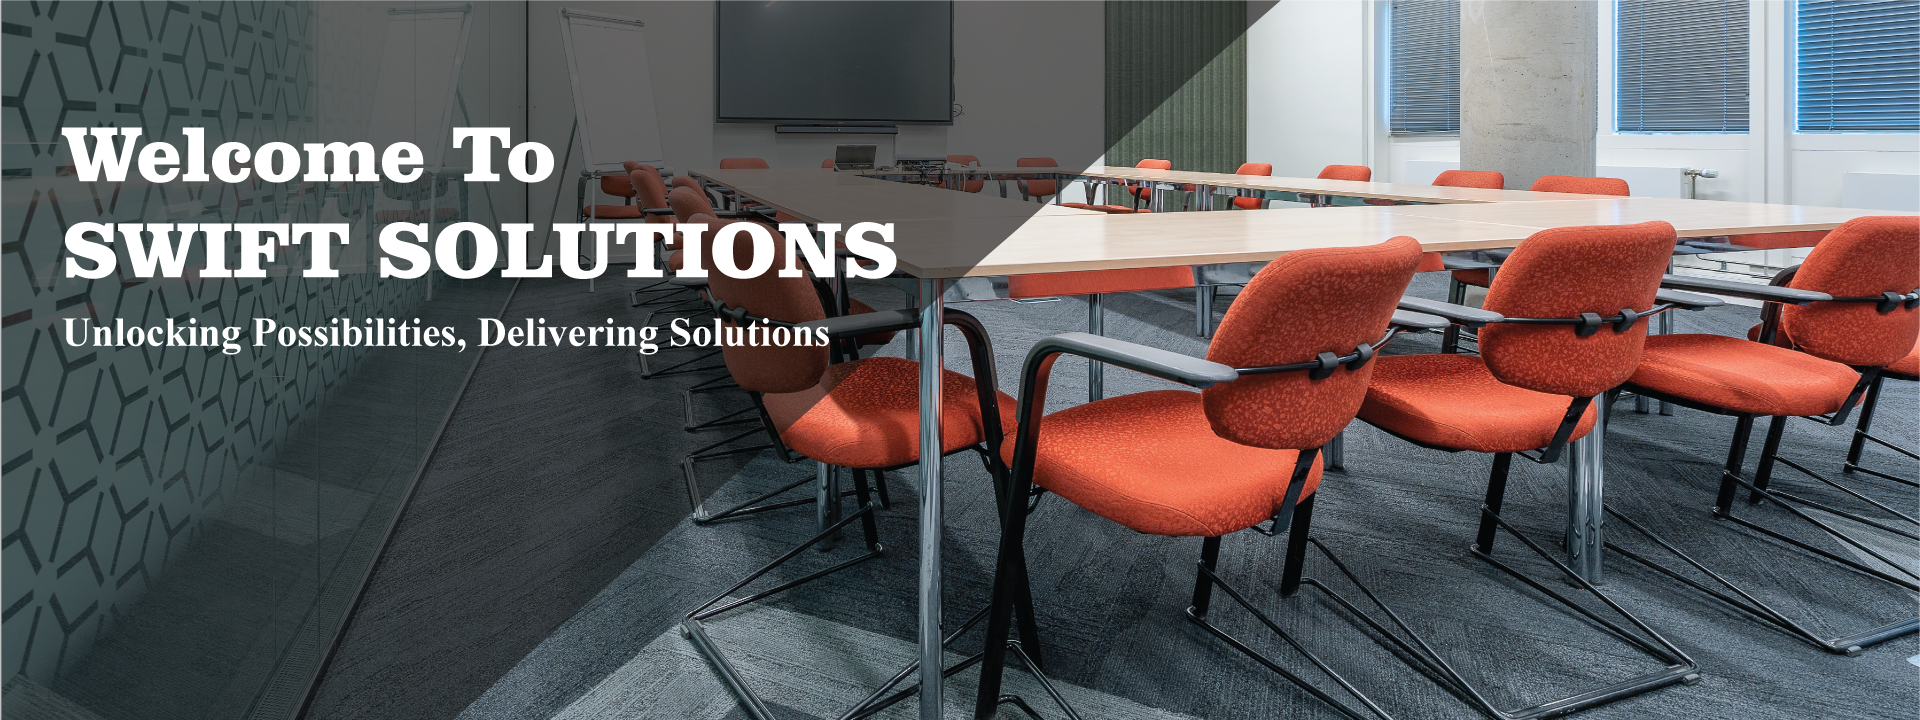
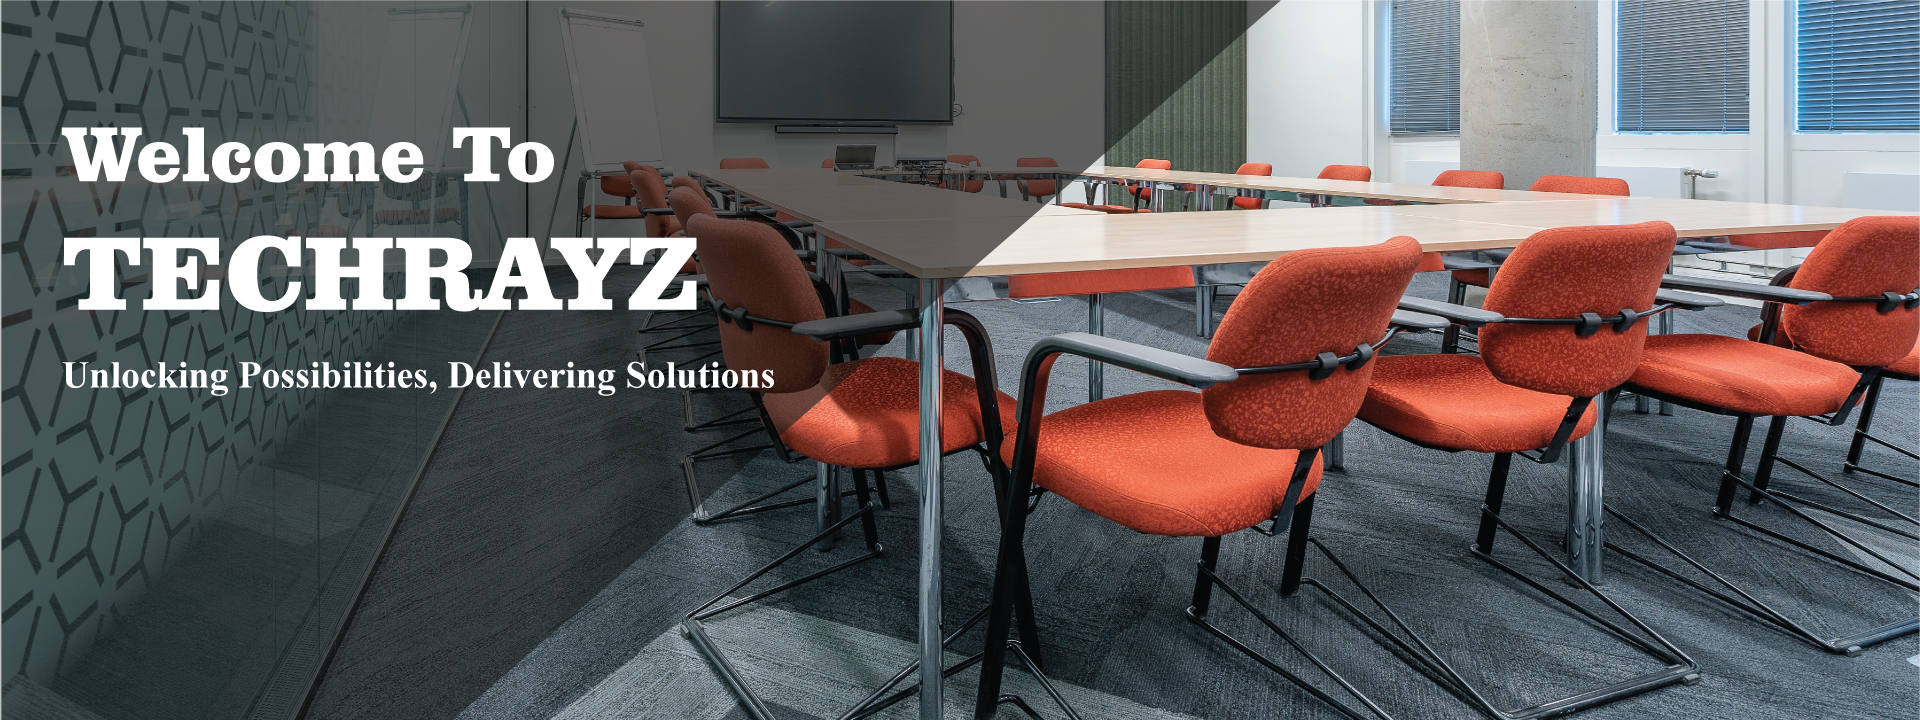
final

Changed region(s): [[0.0312, 0.3056, 0.4688, 0.55]]

diff --git a/src/components/Careers.js b/src/components/Careers.js
@@ -9,7 +9,7 @@ function Careers() {
                 <div className='row'>
                     <div className='col-md-2'></div>
                     <div className='col-12 col-md-8' style={{ textAlign: 'justify' }}>
-                        <p className='text-white fs-5 p-2'>At Swift Solutions, we believe that our success is driven by the talent and dedication of our team members. We're always on the lookout for exceptional individuals who are passionate about technology and development to join our team. While we currently don't have any job openings or vacancies available, we encourage you to check back periodically for future opportunities.</p>
+                        <p className='text-white fs-5 p-2'>At TECHRAYZ, we believe that our success is driven by the talent and dedication of our team members. We're always on the lookout for exceptional individuals who are passionate about technology and development to join our team. While we currently don't have any job openings or vacancies available, we encourage you to check back periodically for future opportunities.</p>
                     </div>
                     <div className='col-md-2'></div>
                 </div>
@@ -24,7 +24,7 @@ function Careers() {
                     <div className='col-12 col-lg-6'>
                         <div style={{ textAlign: 'justify' }}>
                             <p>
-                                At Swift Solutions, our work environment is characterized by a vibrant and inclusive culture that inspires collaboration, creativity, and growth. We foster a sense of belonging where every team member's unique perspectives and ideas are valued and respected.
+                                At TECHRAYZ, our work environment is characterized by a vibrant and inclusive culture that inspires collaboration, creativity, and growth. We foster a sense of belonging where every team member's unique perspectives and ideas are valued and respected.
                             </p>
                             <p>
                                 Our teams thrive on collaboration, working together seamlessly to achieve exceptional results. We encourage open communication, knowledge sharing, and mutual support, creating an environment that nurtures teamwork and camaraderie.
@@ -96,8 +96,8 @@ function Careers() {
                 <div className='row'  style={{ textAlign: 'justify' }}>
                     <div className='col-md-2'></div>
                     <div className='col-md-8'>
-                <p>While we currently don't have any job openings, we still encourage talented individuals to get in touch with us and express their interest in joining our team. You can connect with us by sending an email to [careers@swiftsolutions.pk] or by filling out the contact form below. We will keep your information on file and reach out to you when suitable opportunities arise.</p>
-                <p>Thank you for considering Swift Solutions  as a potential employer. We appreciate your interest in our company and look forward to connecting with you in the future.</p>
+                <p>While we currently don't have any job openings, we still encourage talented individuals to get in touch with us and express their interest in joining our team. You can connect with us by sending an email to [careers@techrayz.com] or by filling out the contact form below. We will keep your information on file and reach out to you when suitable opportunities arise.</p>
+                <p>Thank you for considering TECHRAYZ  as a potential employer. We appreciate your interest in our company and look forward to connecting with you in the future.</p>
                     </div>
                     <div className='col-md-2'></div>
                 </div>

diff --git a/src/components/Landing.js b/src/components/Landing.js
@@ -80,13 +80,13 @@ function Landing() {
             {/* Information About Company: */}
             <div className='container-fluid py-2 py-lg-5'>
                 <div className='row d-flex justify-content-center'>
-                    <div className='col-5 col-md-2  p-lg-4'>
-                        <img src={Logo} alt="Logo" className="rounded-circle w-100" />
+                    <div className='col-5 col-md-2 p-lg-4 d-flex align-items-center'>
+                        <img src={Logo} alt="Logo" className="w-100" />
                     </div>
                     <div className='col-12 col-md-9 col-lg-8'>
-                        <div> <span className='fs-4'>Welcome to Swift Solutions - </span> <span className='fs-5'>Unlocking Possibilities, Delivering Solutions</span></div>
+                        <div> <span className='fs-4'>Welcome to TECHRAYZ - </span> <span className='fs-5'>Unlocking Possibilities, Delivering Solutions</span></div>
                         <p style={{ textAlign: 'justify' }}>
-                            Swift Solutions is a leading IT Software Company, the premier destination for cutting-edge technology solutions and development services. With a relentless pursuit of innovation and a steadfast commitment to excellence, we empower businesses across diverse industries to achieve their goals. Our comprehensive range of services includes website development, mobile app development, graphic designing, digital marketing, and networking services. At Swift Solutions, we drive meaningful digital transformation, fuel growth, and position our clients at the forefront of their respective markets. Experience the power of unique solutions and transformative innovation with Swift Solutions.
+                            TechRayz is a leading IT Software Company, the premier destination for cutting-edge technology solutions and development services. With a relentless pursuit of innovation and a steadfast commitment to excellence, we empower businesses across diverse industries to achieve their goals. Our comprehensive range of services includes website development, mobile app development, graphic designing, digital marketing, and networking services. At TechRayz, we drive meaningful digital transformation, fuel growth, and position our clients at the forefront of their respective markets. Experience the power of unique solutions and transformative innovation with TechRayz.
                         </p>
                     </div>
                 </div>

diff --git a/src/components/Footer.js b/src/components/Footer.js
@@ -9,8 +9,7 @@ function Footer() {
                 <div className="row">
                     <div className="col-12 col-md-4" style={{ textAlign: 'justify' }}>
                         <Link to="/" className='text-decoration-none text-white h3'>
-                            <img src={logo} alt='Logo' width="50" height="50" className="rounded-circle me-2" />
-                            Swift solutions
+                            <img src={logo} alt='Logo' width={200} className="" />
                         </Link>
                         <div className='my-3'>
                             <Link to="/" className="mx-2"><i className="bi bi-facebook text-white fs-4"></i></Link>
@@ -19,7 +18,7 @@ function Footer() {
                             <Link to="/" className="mx-2"><i className="bi bi-whatsapp text-white fs-4"></i></Link>
                             <Link to="/" className="mx-2"><i className="bi bi-linkedin text-white fs-4"></i></Link>
                         </div>
-                        <div>Copyright &copy; 2023, Swift Solutions</div>
+                        <div>Copyright &copy; 2023, techrayz.com</div>
                         <div><Link to="/PrivacyPolicy">Privacy Policy</Link> | <Link to="/">Site Map</Link></div>
                     </div>
                     <div className="col-12 col-md-2 mt-2">
@@ -43,7 +42,7 @@ function Footer() {
                     <div className="col-12 col-md-4 mt-2">
                         <h4>Contact</h4>
                         <ul className='list-unstyled'>
-                            <li className='mb-2 text-white'> <i className='bi bi-envelope me-2'> </i> info@swiftsolution</li>
+                            <li className='mb-2 text-white'> <i className='bi bi-envelope me-2'> </i> info@techrayz.com</li>
                             <li className='mb-2 text-white'> <i className='bi bi-telephone me-2'> </i> +92 301 4405739</li>
                             <li className='mb-2 text-white'> <i className='bi bi-phone me-2'> </i> +92 305 4735990</li>
                             <li className='mb-2 text-white'> <i className='bi bi-geo-alt me-2'> </i> Fateh Garh Lahore, Pakistan</li>

diff --git a/src/components/Contact.js b/src/components/Contact.js
@@ -10,7 +10,7 @@ function Contact() {
         window.location.href = 'tel:+923014405739';
     };
 
-    const emailAddress = "info@swiftsolutions.pk";
+    const emailAddress = "info@techrayz.com";
     const handleEmailClick = () => {
         window.location.href = `mailto:${emailAddress}`;
     };
@@ -72,7 +72,7 @@ function Contact() {
                                             <i className='bi bi-envelope text-warning fs-1 me-3'></i>
                                             </div>
                                             <div className='fs-5'>Get Enquiry at: <br />
-                                                <div className=' fs-3 fw-bold my-2'>info@swiftsolution</div>
+                                                <div className=' fs-3 fw-bold my-2'>info@techrayz.com</div>
                                                 <button onClick={handleEmailClick} className="btn btn-dark px-4">
                                                     Mail Now
                                                 </button>

diff --git a/src/components/Navbar.js b/src/components/Navbar.js
@@ -6,9 +6,9 @@ function Navbar() {
   return (
     <nav className="navbar navbar-expand-lg navbar-light bg-transparen">
       <div className="container-fluid">
-        <Link className="navbar-brand d-flex fw-bold align-items-center mx-3" to="/">
-          <img src={logo} alt="Logo" width="50" height="50" className="d-inline-block align-text-top rounded-circle me-2" />
-          SwiftSolutions </Link>
+        <Link className="navbar-brand d-flex fw-bold align-items-center ms-5 " to="/">
+          <img src={logo} alt="Logo" width={120} className="d-inline-block align-text-top" />
+        </Link>
         <button className="navbar-toggler" type="button" data-bs-toggle="collapse"
           data-bs-target="#navbarSupportedContent" aria-controls="navbarSupportedContent" aria-expanded="false"
           aria-label="Toggle navigation">

diff --git a/src/components/AboutUs.js b/src/components/AboutUs.js
@@ -11,7 +11,7 @@ function AboutUs() {
     return (
         <>
             <div className='container-fluid py-5 px-0 text-white text-center ' style={{ backgroundImage: `url(${Background})`, backgroundSize: 'cover' }}>
-                <h1>ABOUT SWIFT SOLUTIONS</h1>
+                <h1>ABOUT TECHRAYZ</h1>
                 <h6>Complete Source for Customized and Comprehensive Tech Solutions At One Stop</h6>
             </div>
             <div className='container-fluid bg-light'>
